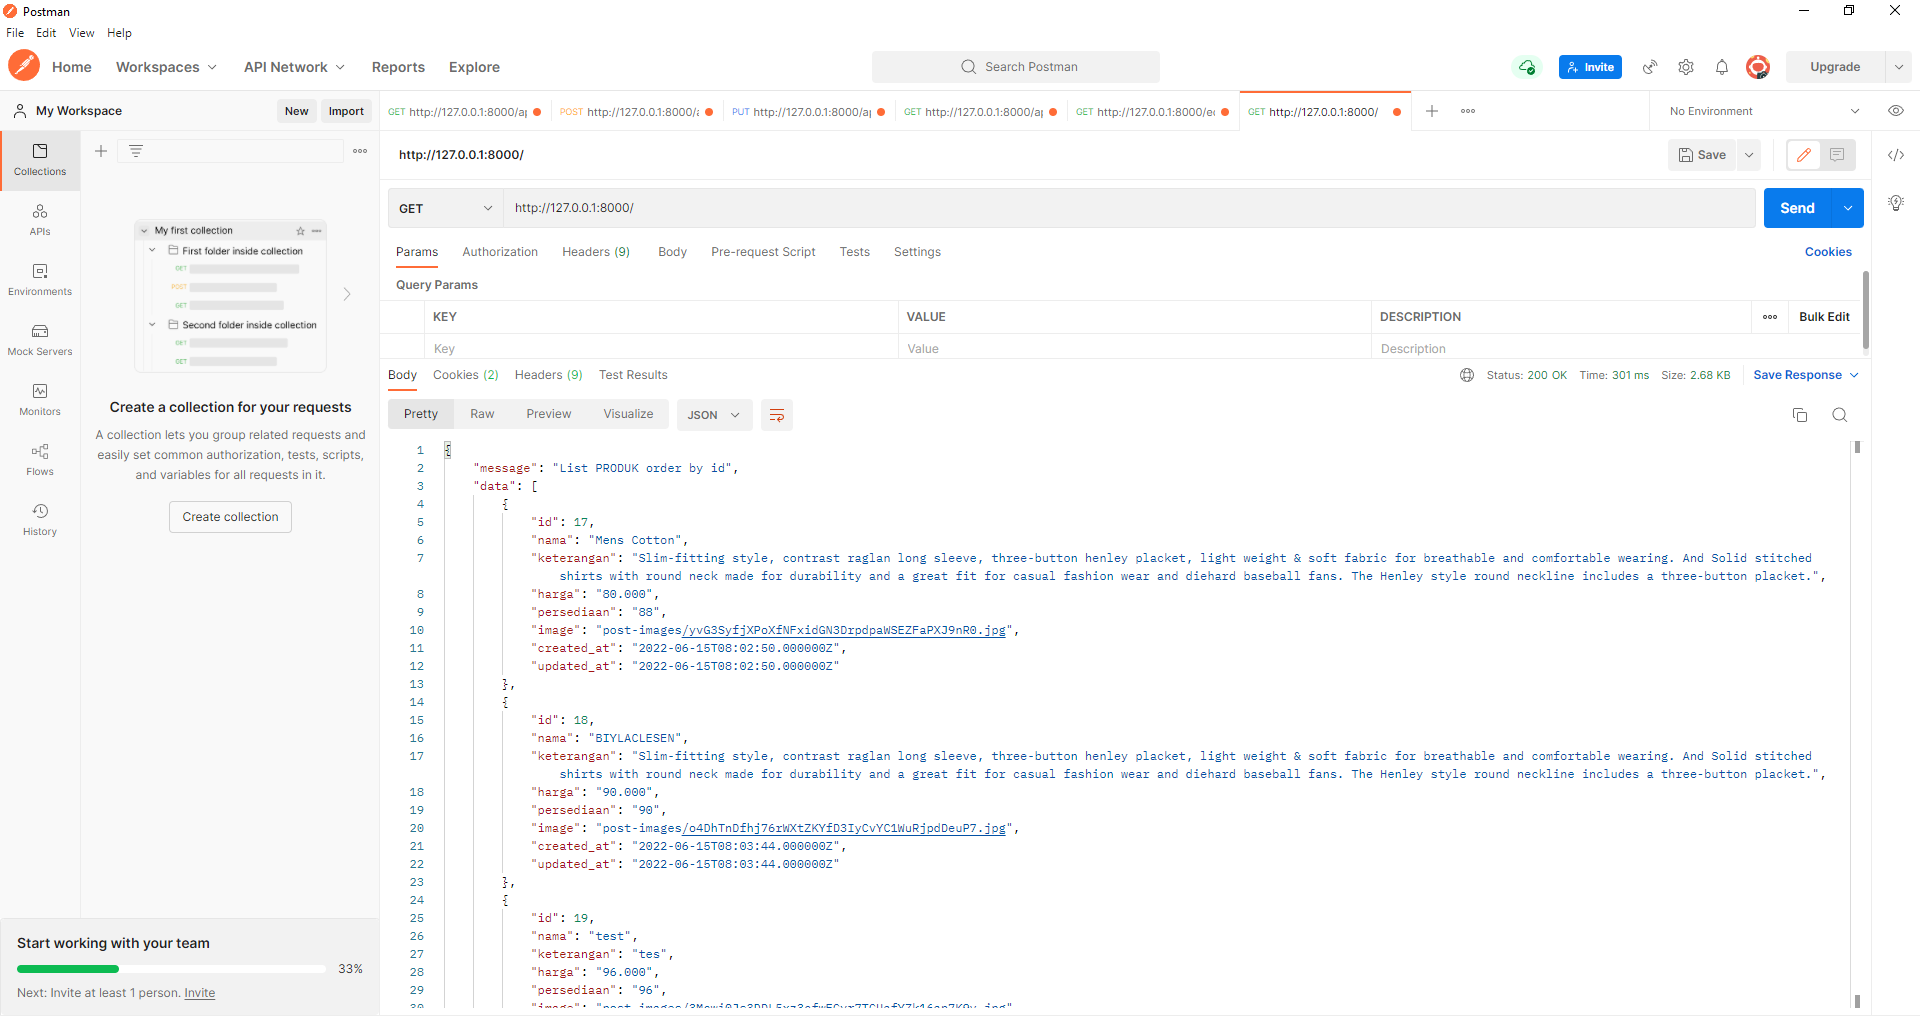
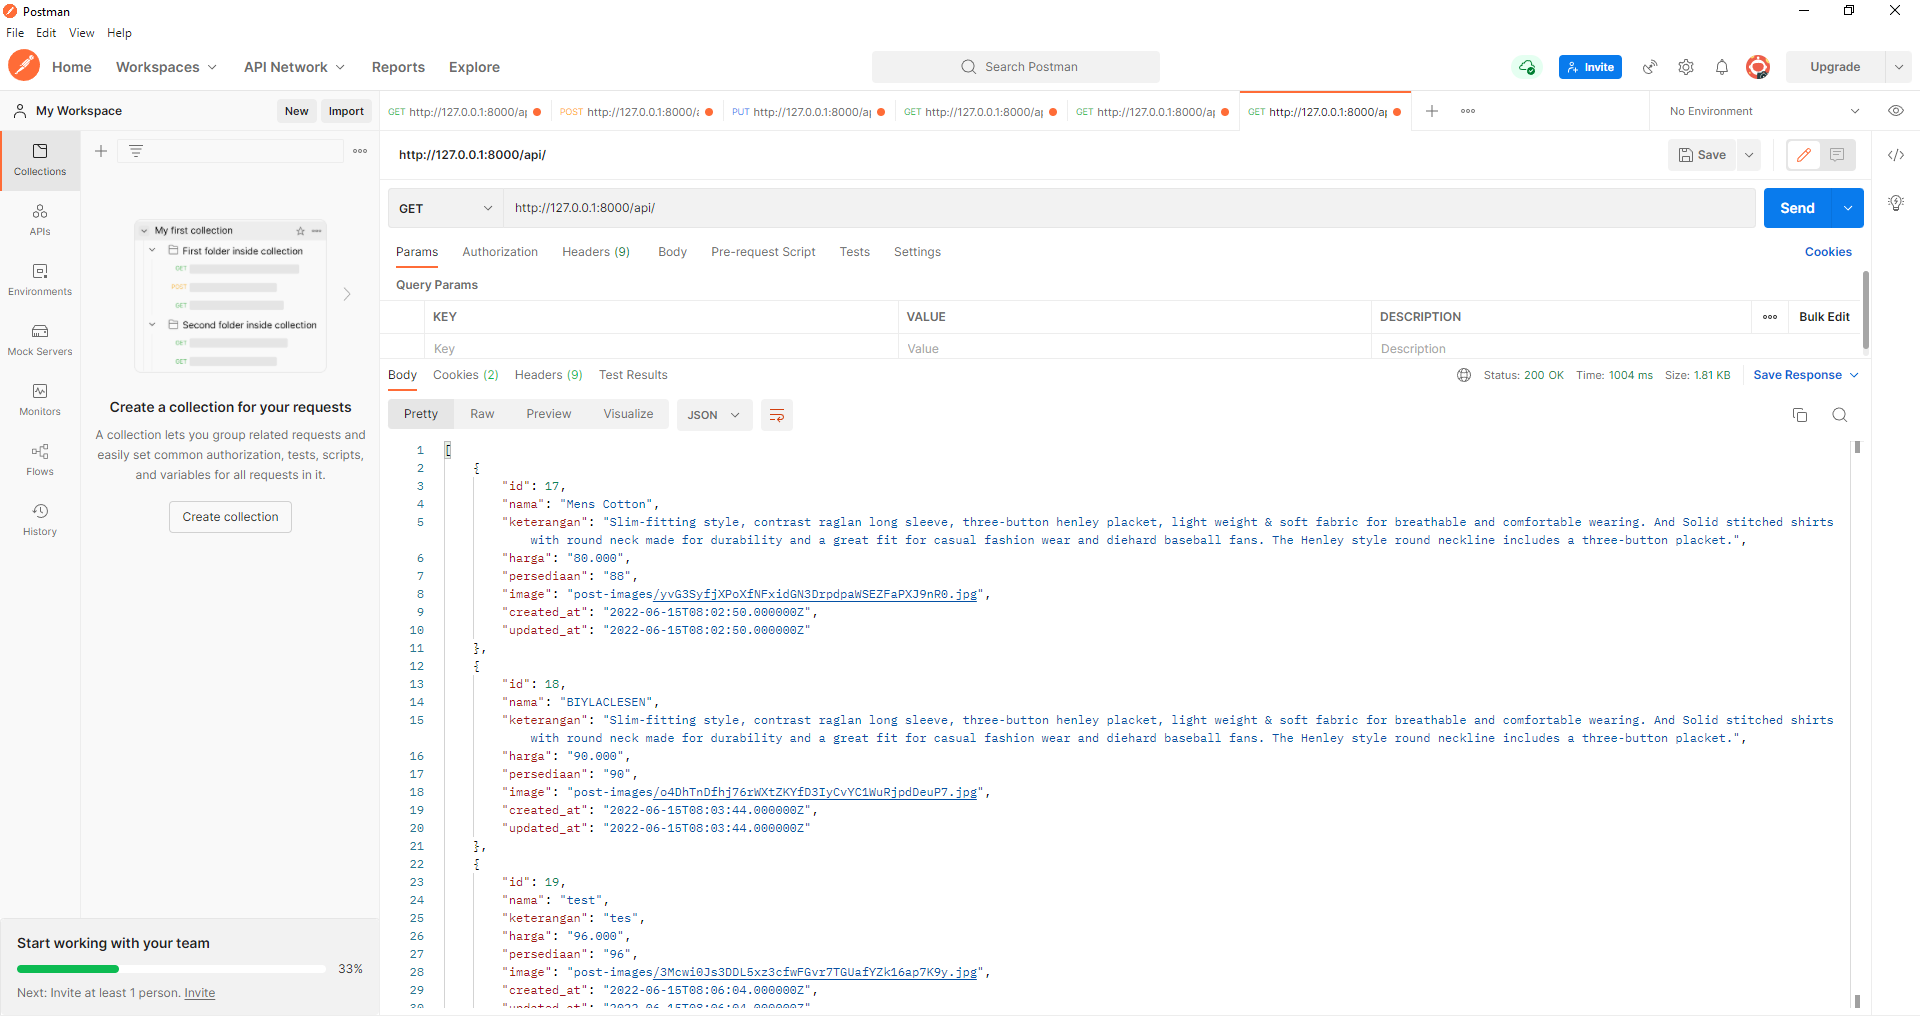
Menambahkan Repository di API LARAVEL

Changed region(s): [[0.25, 0.4572, 0.9375, 0.8535], [0.25, 0.884, 0.5, 1.0], [0.75, 0.3658, 0.875, 0.3963]]

diff --git a/Modules/Post/Http/Controllers/PostController.php b/Modules/Post/Http/Controllers/PostController.php
@@ -9,31 +9,51 @@ use Illuminate\Routing\Controller;
 use Illuminate\Support\Facades\Auth;
 use Illuminate\Support\Facades\Validator;
 use App\Http\Controllers\ProdukController;
-use function PHPUnit\Framework\assertTrue;
-
-
-
 use Illuminate\Contracts\Support\Renderable;
-use Illuminate\Database\Events\QueryExecuted;
-use Illuminate\Database\QueryException;
 use Modules\Post\Repositories\PostRepository;
 use Symfony\Component\HttpFoundation\Response;
 
+
 class PostController extends Controller
 {
-
-    public function index_Produk() //READ
+    /**
+    
+     * @return void
+     */
+    private $ProduksRepository;
+    public function __construct(PostRepository $PostRepository)
     {
 
-        $Produk = Produks::all();
-        $response = [
-            'message' => 'List PRODUK order by id',
-            'data' => $Produk
-        ];
-
-        return response()->json($response, Response::HTTP_OK); //200 OK
+        $this->PostRepository = $PostRepository;
     }
-    public function store(Request $request) //CREATE
+
+    /**
+     * Show the application dashboard.
+     *
+     * @return \Illuminate\Contracts\Support\Renderable
+     */
+    public function index_Produk()
+    {
+
+        $Produk = $this->PostRepository->getAll();
+        return $Produk;
+    }
+
+
+    /** 
+     * Show the form for creating a new resource.
+     * @return Renderable 
+     */
+    public function create()
+    {
+    }
+
+    /**
+     * Store a newly created resource in storage.
+     * @param Request $request
+     * @return Renderable
+     */
+    public function store(Request $request)
     {
         $validatedData = Validator::make($request->all(), [
             'nama' => 'required|max:11',
@@ -43,29 +63,44 @@ class PostController extends Controller
             'image' => 'min:5'
         ]);
 
-        if ($validatedData->fails()) {
-            return response()->json($validatedData->errors(), Response::HTTP_UNPROCESSABLE_ENTITY);
-        }
-
         if ($request->file('image')) {
             $validatedData['image'] = $request->file('image')->store('post-images');
         }
-
-
-        $Produk = Produks::create($request->all());
-
-        $response = [
-            'message' => 'PRODUK berhasil di tambah!!',
-            'data' => $Produk
-        ];
-        return response()->json($response, Response::HTTP_CREATED); //201 OK
         //
         //dd($request->except(['_token', 'submit']));
-        //Produks::create($validatedData);
-        //session()->flash('success', 'Produks has been added !!');
-        // redirect('/edit');
+        Produks::create($request->all());
+
+        return redirect('/edit'); //200 OK
     }
-    public function update(Request $request, $id) //UPDATE
+
+    /**
+     * Show the specified resource.
+     * @param int $id
+     * @return Renderable
+     */
+    public function show($id)
+    {
+        return view('post::show');
+    }
+
+    /**
+     * Show the form for editing the specified resource.
+     * @param int $id
+     * @return Renderable
+     */
+    public function ProdukEdit($id)
+    {
+        $Produk = $this->PostRepository->findById($id);
+        return $Produk;
+    }
+
+    /**
+     * Update the specified resource in storage.
+     * @param Request $request
+     * @param int $id
+     * @return Renderable
+     */
+    public function update(Request $request, $id)
     {
         $Produk = Produks::findOrFail($id); //Melanjutkan jika ada data id, jika tidak maka tidak di lanjutkan
 
@@ -77,41 +112,23 @@ class PostController extends Controller
             'image' => 'min:5'
         ]);
 
-        if ($validatedData->fails()) {
-            return response()->json($validatedData->errors(), Response::HTTP_UNPROCESSABLE_ENTITY);
-        }
 
         if ($request->file('image')) {
             $validatedData['image'] = $request->file('image')->store('post-images');
         }
 
         $Produk->update($request->all());
-
-        $response = [
-            'message' => 'PRODUK berhasil di Perbarui!!',
-            'data' => $Produk
-        ];
-        return response()->json($response, Response::HTTP_OK); //200 OK
+        return redirect('/edit'); //200 OK
     }
-    public function ProdukEdit($id) //SHOW ATAU MENAMPILKAN DATA BERDASARLAN  ID
+
+    /**
+     * Remove the specified resource from storage.
+     * @param int $id
+     * @return Renderable
+     */
+    public function destroy($id)
     {
-        $Produk = Produks::findOrFail($id);  //Melanjutkan jika ada data id, jika tidak maka tidak di lanjutkan
-
-        $response = [
-            'message' => 'PRODUK Detail ',
-            'data' => $Produk
-        ];
-        return response()->json($response, Response::HTTP_OK); //200 OK
-    }
-    public function destroy($id) //DELETE DATA
-    {
-        $Produk = Produks::findOrFail($id);  //Melanjutkan jika ada data id, jika tidak maka tidak di lanjutkan
-
-        $Produk->delete();
-
-        $response = [
-            'message' => 'PRODUK di Hapus Berhasil !! '
-        ];
-        return response()->json($response, Response::HTTP_OK); //200 OK
+        $id = $this->PostRepository->delete($id);
+        return $id;
     }
 }

diff --git a/routes/web.php b/routes/web.php
@@ -23,27 +23,27 @@ use Modules\Test\Http\Controllers\TestController;
 |
 */
 
-Route::get('/', [ProdukController::class, 'index'])->name('produks.index');
+//Route::get('/', [ProdukController::class, 'index'])->name('produks.index');
 
 
 Route::get('/login', [UserController::class, 'index']);
 Route::get('/register', [RegisterController::class, 'index']);
 
-Route::get('/home', [HomeController::class, 'index']);
+//Route::get('/home', [HomeController::class, 'index']);
 
-Route::get('/edit', [PostController::class, 'index_Produk']);
+//Route::get('/edit', [PostController::class, 'index_Produk']);
 
-Route::get('/post', [PostController::class, 'index']);
+//Route::get('/post', [PostController::class, 'index']);
 
-Route::post('/post/store', [PostController::class, 'store'])->name('produks.store'); //CREATE .
+//Route::post('/post/store', [PostController::class, 'store'])->name('produks.store'); //CREATE .
 
-Route::get('/edit/{id}', [PostController::class, 'ProdukEdit'])->name('produks.edit'); //READ .
-Route::put('/edit/post/{id}', [PostController::class, 'update'])->name('produks.update'); //UPDATE
+//Route::get('/edit/{id}', [PostController::class, 'ProdukEdit'])->name('produks.edit'); //READ .
+//Route::put('/edit/post/{id}', [PostController::class, 'update'])->name('produks.update'); //UPDATE
 
-Route::get('/edit/post/delete/{id}', [PostController::class, 'destroy'])->name('produks.destroy'); //DELETE 
+//Route::get('/edit/post/delete/{id}', [PostController::class, 'destroy'])->name('produks.destroy'); //DELETE 
 
-Route::get('/{id}', [ProdukController::class, 'show']);
+//Route::get('/{id}', [ProdukController::class, 'show']);
 
-Route::get('/home/cart/{id}', [HomeController::class, 'cartt'])->name('produks.cart'); //cart 
+//Route::get('/home/cart/{id}', [HomeController::class, 'cartt'])->name('produks.cart'); //cart 
 
-Auth::routes();
+//Auth::routes();

diff --git a/app/Http/Controllers/ProdukController.php b/app/Http/Controllers/ProdukController.php
@@ -5,30 +5,23 @@ namespace App\Http\Controllers;
 use App\Models\Produks;
 use Illuminate\Http\Request;
 use App\Repositories\ProduksRepository;
-use Symfony\Component\HttpFoundation\Response;
 
 class ProdukController extends Controller
 {
-
-    public function index() //READ
+    private $ProduksRepository;
+    public function __construct(ProduksRepository $ProduksRepository)
     {
-        $Produk = Produks::all();
-        $response = [
-            'message' => 'List PRODUK order by id',
-            'data' => $Produk
-        ];
-
-        return response()->json($response, Response::HTTP_OK); //200 OK
+        $this->ProduksRepository = $ProduksRepository;
+    }
+    public function index()
+    {
+        $Produk = $this->ProduksRepository->getAll();
+        return $Produk;
     }
 
-    public function show($id) //SHOW
+    public function show($id)
     {
-        $Produk = Produks::findOrFail($id);  //Melanjutkan jika ada data id, jika tidak maka tidak di lanjutkan
-
-        $response = [
-            'message' => 'PRODUK Detail ',
-            'data' => $Produk
-        ];
-        return response()->json($response, Response::HTTP_OK); //200 OK
+        $Produk = $this->ProduksRepository->findById($id);
+        return $Produk;
     }
 }

diff --git a/routes/api.php b/routes/api.php
@@ -3,6 +3,7 @@
 use Illuminate\Http\Request;
 use Illuminate\Support\Facades\Route;
 use Modules\Post\Http\Controllers\PostController;
+use App\Http\Controllers\ProdukController;
 
 /*
 |--------------------------------------------------------------------------
